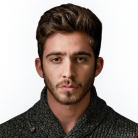
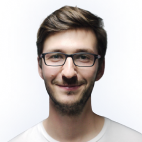
Fix team images and margin

diff --git a/index.html b/index.html
@@ -228,6 +228,7 @@
         <div class="team__members">
           <div class="team__member-card">
             <div class="team__member-avatar">
+              <img src="./images/avatar-blue-check.svg" class="team__member-bluecheck" alt="">
               <img src="./images/team-fotoframe.svg" class="team__member-frame" alt="">
               <img src="./images/team-001.png" class="team__member-picture" alt="">
             </div>
@@ -236,6 +237,7 @@
           </div>
           <div class="team__member-card">
             <div class="team__member-avatar">
+              <img src="./images/avatar-blue-check.svg" class="team__member-bluecheck" alt="">
               <img src="./images/team-fotoframe.svg" class="team__member-frame" alt="">
               <img src="./images/team-001.png" class="team__member-picture" alt="">
             </div>
@@ -244,6 +246,7 @@
           </div>
           <div class="team__member-card">
             <div class="team__member-avatar">
+              <img src="./images/avatar-blue-check.svg" class="team__member-bluecheck" alt="">
               <img src="./images/team-fotoframe.svg" class="team__member-frame" alt="">
               <img src="./images/team-001.png" class="team__member-picture" alt="">
             </div>
@@ -252,6 +255,7 @@
           </div>
           <div class="team__member-card">
             <div class="team__member-avatar">
+              <img src="./images/avatar-blue-check.svg" class="team__member-bluecheck" alt="">
               <img src="./images/team-fotoframe.svg" class="team__member-frame" alt="">
               <img src="./images/team-001.png" class="team__member-picture" alt="">
             </div>

diff --git a/styles/main.css b/styles/main.css
@@ -248,6 +248,11 @@ p.section__subtitle{
   margin-bottom: 32px;
 }
 
+.whats-netbooks__content h3 {
+  font-size: 36px;
+  margin-bottom: 20px;
+}
+
 .whats-netbooks__content ul {
   font-size: 18px;
   list-style: none;
@@ -407,6 +412,10 @@ p.section__subtitle{
   box-shadow: 0px 10px 22px -2px rgba(250, 186, 84, 0.3);
 }
 
+.team {
+  margin-bottom: 80px;
+}
+
 .team__content {
   width: 450px;
   margin: 0 auto;
@@ -464,11 +473,20 @@ p.section__subtitle{
 }
 
 .team__member-picture {
+  background-color: #E2EEFF;
   border-radius: 50%;
   position: absolute;
   top: 50%;
   left: 50%;
   transform: translate(-50%, -50%);
+}
+
+.team__member-bluecheck {
+  position: absolute;
+  left: 50%;
+  transform: translatex(-50%);
+  bottom: -5px;
+  z-index: 1;
 }
 
 .team__member-avatar {
